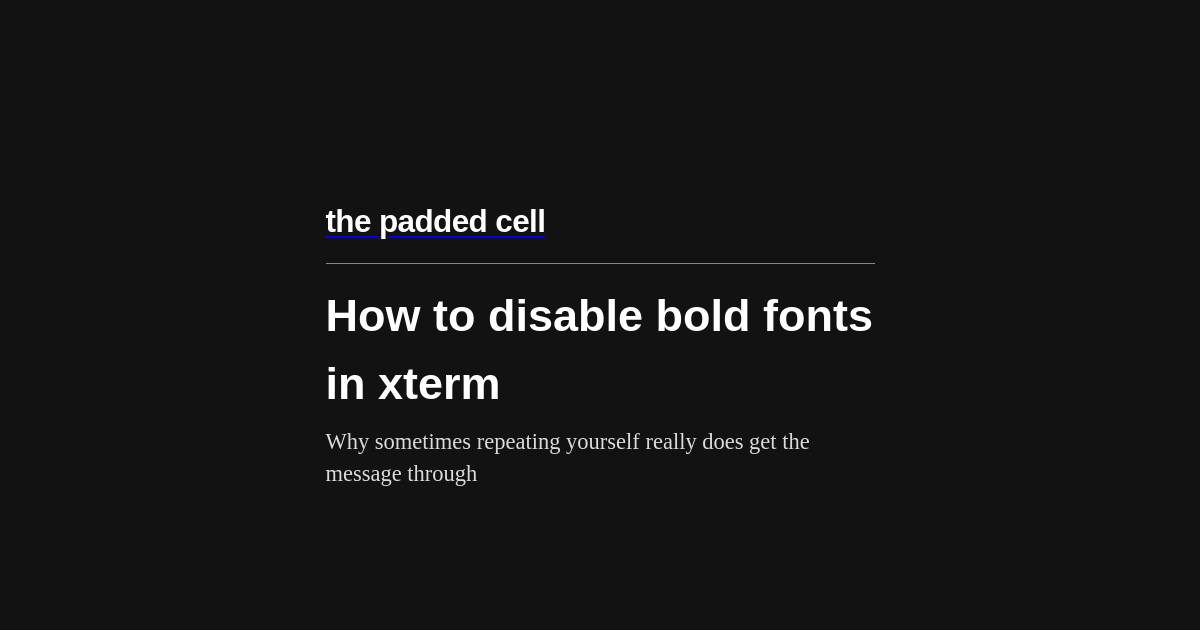
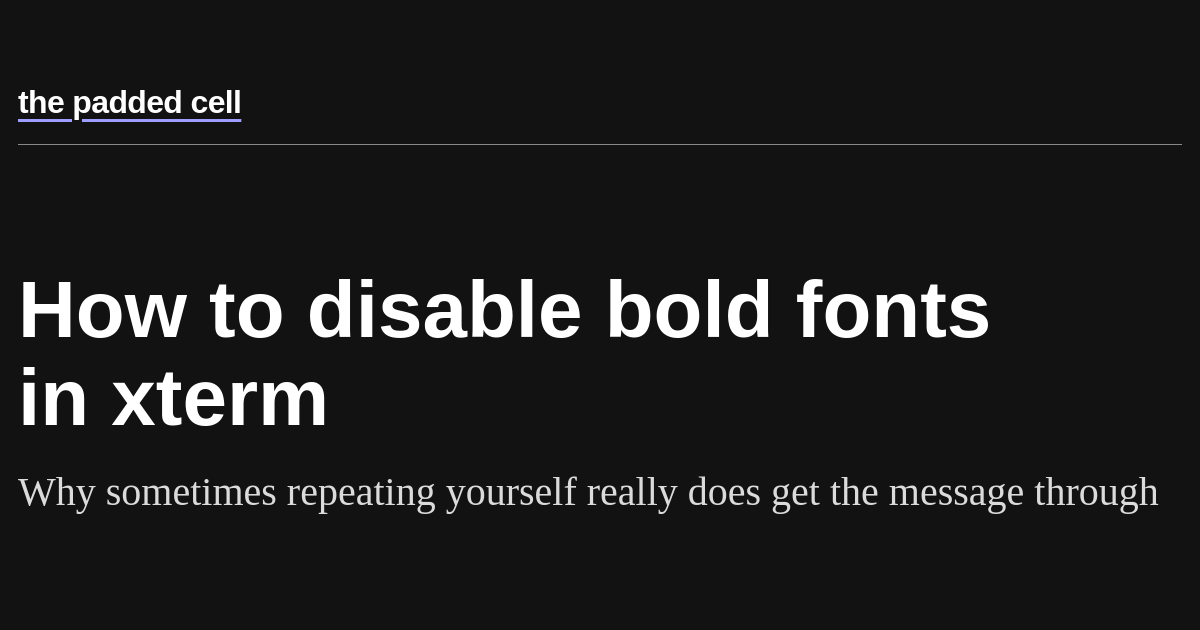
Make social image bigger/clearer

diff --git a/themes/sanitarium/layouts/_default/page.banner.html b/themes/sanitarium/layouts/_default/page.banner.html
@@ -25,35 +25,37 @@
         /* Set explicit dark mode */
         color-scheme: dark;
 
-        font-size: clamp(1rem, 1vw + 0.75rem, 1.125rem);
+        font-size: 18px;
     }
 
     /* Basic body styling */
     body {
         font-family: var(--system-serif);
-        max-width: 65ch;
+        /*max-width: 65ch;*/
         margin: 0 auto;
         padding: 0 var(--space-md);
         line-height: 1.5;
+        height: 630px;
+        width: 1200px;
     }
 
     /* Masthead styling */
     header.masthead {
         padding: var(--space-md) 0;
-        margin-bottom: var(--space-md);
+        margin-bottom: var(--space-lg);
         border-bottom: 0.1em solid var(--border-color-standard);
     }
 
     header.masthead a {
-        font-size: 1.75rem;
+        font-size: 32px;
         font-weight: 800;
         font-family: var(--system-sans);
         letter-spacing: -0.02em;
         color: white; /* Dark mode text color */
         text-decoration: underline;
         text-decoration-color: var(--accent-color-dark);
-        text-decoration-thickness: 2px;
-        text-underline-offset: 4px;
+        text-decoration-thickness: 3px;
+        text-underline-offset: 6px;
     }
 
     header.masthead a:hover {
@@ -78,6 +80,8 @@
 
     article.banner header {
         border-bottom: none;
+        margin-bottom: 0;
+        padding-bottom: 0;
     }
 
     /* Typography for headings */
@@ -90,21 +94,37 @@
     }
 
     h1 {
-        font-size: clamp(1.5rem, 1.2rem + 2vw, 2.5rem);
+        font-size: 80px; /* Starting size, will be adjusted by JS */
+        line-height: 1.1;
+        max-width: 1000px;
+    }
+
+    /* More aggressive scaling for very wide viewports to prioritize single-line */
+    @media (min-width: 768px) {
+        h1 {
+            font-size: clamp(2rem, 3vw + 0.8rem, 3.5rem);
+        }
+    }
+
+    @media (min-width: 1200px) {
+        h1 {
+            font-size: clamp(2.2rem, 2.5vw + 1rem, 3.2rem);
+        }
     }
 
     /* Heading group styling */
     hgroup h1 {
-        margin-bottom: 0.2em;
+        margin-bottom: 0.3em;
     }
 
     hgroup h1 + p {
-        margin-top: 0.25em;
-        margin-bottom: var(--space-md);
-        font-size: 1.25em;
-        color: rgba(255, 255, 255, 0.85); /* Dark mode subdued text */
+        margin-top: 0;
+        margin-bottom: 0;
+        font-size: 28px; /* Starting size, will be adjusted by JS */
+        color: rgba(255, 255, 255, 0.85); /* Dark mode text color */
         font-weight: normal;
-        line-height: 1.4;
+        line-height: 1.3;
+        /*font-style: italic;*/
     }
 
     /* Link styling */
@@ -120,9 +140,73 @@
 
     /* Banner specific adjustments */
     body:has(main article.banner) {
-        padding-top: 15%;
+        padding-top: 60px;
+        display: flex;
+        flex-direction: column;
+        /*border: 3px solid #ff0000;*/
+        /*box-sizing: border-box;*/
+        /*position: relative;*/
+        overflow: hidden;
+    }
+
+    /*body:has(main article.banner)::before {*/
+    /*    content: "1200×630px";*/
+    /*    position: absolute;*/
+    /*    top: 5px;*/
+    /*    right: 5px;*/
+    /*    background: #ff0000;*/
+    /*    color: white;*/
+    /*    padding: 2px 6px;*/
+    /*    font-size: 12px;*/
+    /*    font-family: monospace;*/
+    /*}*/
+
+    body:has(main article.banner) main {
+        flex: 1;
+        display: flex;
+        align-items: center;
+        margin-bottom: 0;
+    }
+
+    body:has(main article.banner) article.banner {
+        width: 100%;
     }
 </style>
+
+<script>
+    function resizeTextToFit() {
+        const title = document.querySelector('h1.title');
+        const subtitle = document.querySelector('p.subtitle');
+        const maxWidth = 1000;
+        const minTitleSize = 32;
+        const maxTitleSize = 80;
+        const minSubtitleSize = 18;
+        const maxSubtitleSize = 40;
+
+        // Reset to max size
+        title.style.fontSize = maxTitleSize + 'px';
+        subtitle.style.fontSize = maxSubtitleSize + 'px';
+
+        // Reduce title size until it fits on one line
+        let titleSize = maxTitleSize;
+        while (title.scrollWidth > maxWidth && titleSize > minTitleSize) {
+            titleSize -= 2;
+            title.style.fontSize = titleSize + 'px';
+        }
+
+        // Scale subtitle proportionally - increased from 0.35 to 0.5 for more presence
+        const subtitleSize = Math.max(minSubtitleSize, Math.min(maxSubtitleSize, titleSize * 0.6));
+        subtitle.style.fontSize = subtitleSize + 'px';
+    }
+
+    // Render immediately, in case we go too fast in the screenshotting
+    setTimeout(resizeTextToFit, 10);
+
+    // Run on load and resize
+    window.addEventListener('load', resizeTextToFit);
+    window.addEventListener('resize', resizeTextToFit);
+</script>
+
 {{ end }}
 
 {{ define "main" }}
